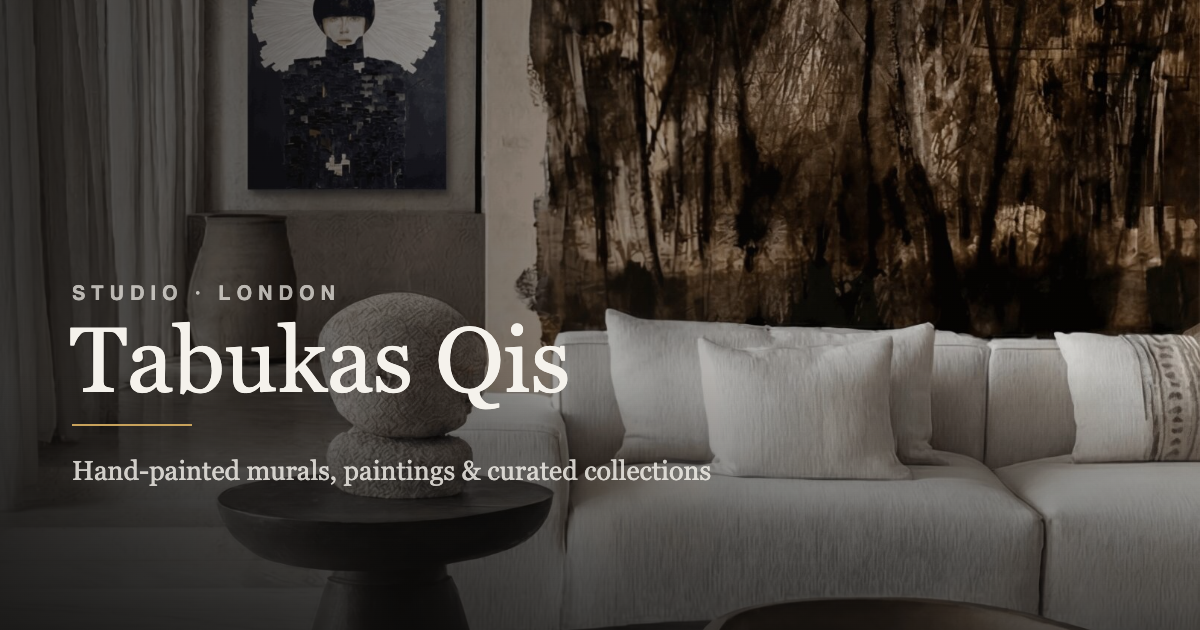
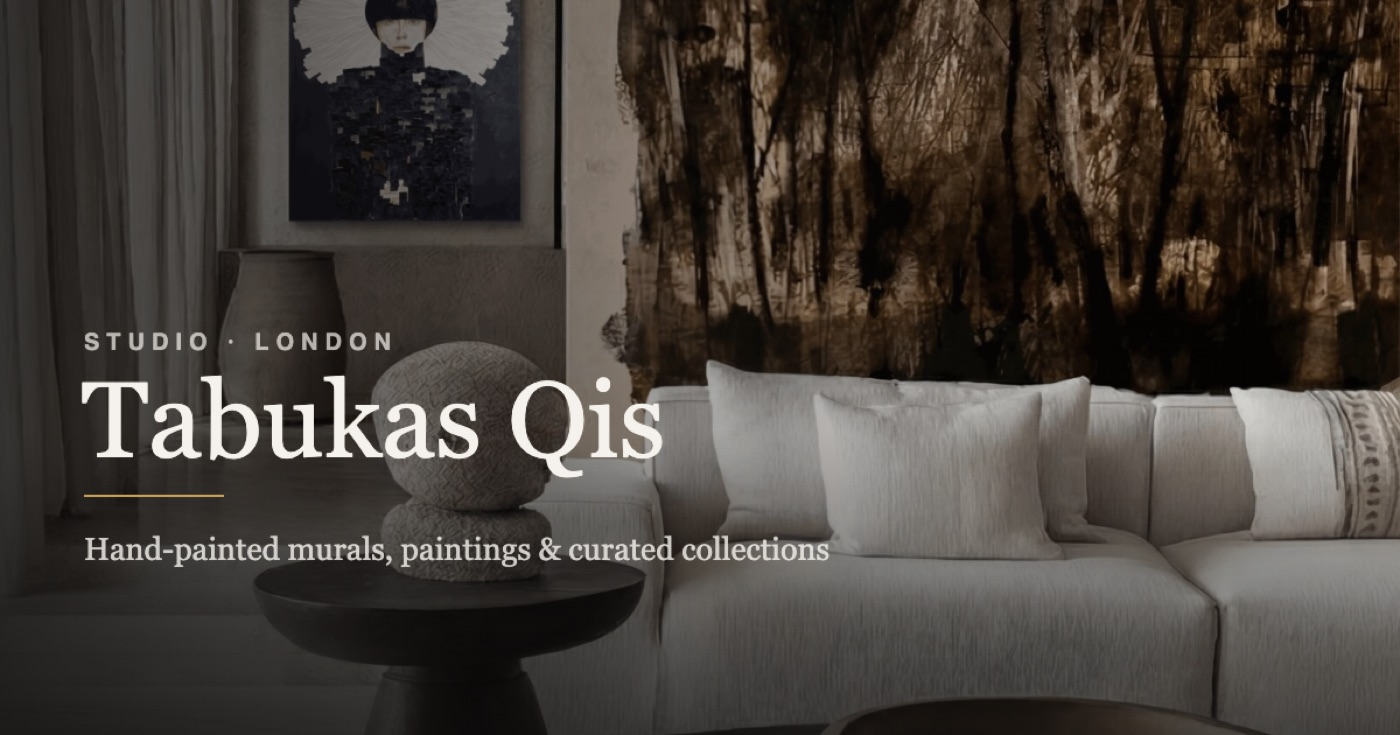
Optimise images and fix mobile layout
- Remove 231MB of unused asset folders (prints, prints-ab, originals)
- Convert 18 mural PNGs to JPEG: 45MB → 5.2MB (88% reduction)
- Compress hero-alt.png: 5.7MB → 584KB, madonna-fire: 10MB → 528KB
- Add lazy loading to gallery and carousel images
- Fix mobile nav layout on Ewa Podles page (was completely missing)
- Add comprehensive mobile CSS for both pages:
  - Panel max-height increased for 18-mural gallery
  - Ledger pricing collapses to 2-col card layout on mobile
  - Stack carousel resizes correctly on small screens
  - Split lightbox stacks vertically on mobile
  - Section padding reduced on small screens
  - Footer stacks on mobile

diff --git a/Projects Menu.html b/Projects Menu.html
@@ -1330,6 +1330,76 @@
   @media (prefers-reduced-motion: reduce) {
     .cm-overlay, .cm-card, .cm-left > *, .cm-right > * { transition-duration: .01ms !important; }
   }
+
+  /* ============ MOBILE FIXES ============ */
+  /* Larger panel height for many-item categories */
+  .proj.open .proj-panel { max-height: 5000px; }
+
+  @media (max-width: 640px) {
+    /* Hero */
+    .tq-hero { padding: 24px 20px 56px; gap: 32px; min-height: auto; }
+    .tq-hero__pull { font-size: 17px; }
+
+    /* Section headings */
+    .roman-numeral { font-size: 5rem; }
+
+    /* Works: gallery 2-col on mobile */
+    .gallery { grid-template-columns: repeat(2, 1fr); gap: 10px; }
+    .card-title { font-size: 13px; }
+    .card-sub { font-size: 8px; }
+    .proj-panel-inner { padding: 4px 8px 40px; }
+    .proj-head { padding: 20px 10px; }
+
+    /* Index list: hide year column */
+    .idx-line { grid-template-columns: 28px 1fr 1fr auto; gap: 10px; }
+    .idx-line .l-year { display: none; }
+    .idx-line .l-name { font-size: 17px; }
+
+    /* Pricing — ledger: collapse to card layout */
+    .lg-head { display: none; }
+    .lg-row {
+      grid-template-columns: 1fr 1fr;
+      grid-template-rows: auto auto;
+      gap: 8px 16px;
+      padding: 20px 12px;
+    }
+    .lg-num { display: none; }
+    .lg-name { grid-column: 1; font-size: 22px; }
+    .lg-desc { grid-column: 1 / -1; font-size: 12px; }
+    .lg-price { grid-column: 2; grid-row: 1; align-items: flex-end; }
+    .lg-price .amt { font-size: 22px; }
+
+    /* Pricing — tonal: 1 column */
+    .tonal-grid { grid-template-columns: 1fr; gap: 12px; }
+    .tonal-card { min-height: auto; padding: 22px 20px 20px; }
+
+    /* Pricing — scale */
+    .scale-steps { height: 200px; }
+    .scale-step .step-label { font-size: 14px; }
+    .scale-step .step-price { font-size: 14px; }
+
+    /* About section padding */
+    section.py-24 { padding-top: 64px; padding-bottom: 64px; }
+    section.py-32 { padding-top: 64px; padding-bottom: 64px; }
+    .py-24.px-12 { padding-left: 16px; padding-right: 16px; }
+    .px-12 { padding-left: 16px !important; padding-right: 16px !important; }
+
+    /* Lightbox on mobile */
+    .lb-desc { padding: 24px 20px; gap: 14px; }
+    .lb-title { font-size: 36px; }
+    .lb-body { font-size: 15px; }
+    .lb-spec { grid-template-columns: 90px 1fr; gap: 10px 16px; font-size: 10px; }
+    .lb-actions { flex-wrap: wrap; }
+
+    /* Footer */
+    footer .max-w-7xl { flex-direction: column; gap: 16px; align-items: flex-start; }
+    footer .flex.gap-12 { gap: 20px; flex-wrap: wrap; }
+  }
+
+  @media (max-width: 380px) {
+    .gallery { grid-template-columns: 1fr; }
+    .tq-toggle button { padding: 10px 14px; font-size: 10px; letter-spacing: 0.2em; }
+  }
 </style>
 </head>
 <body class="bg-background text-on-surface">
@@ -1366,7 +1436,7 @@
     <div class="tq-hero__stage">
       <div class="tq-hero__art" id="tqArt">
         <div class="tq-hero__frame tq-hero__frame--back">
-          <img alt="" src="assets/hero-alt.png"/>
+          <img loading="lazy" alt="" src="assets/hero-alt.jpg"/>
         </div>
         <div class="tq-hero__frame">
           <img class="tq-layer is-on" src="assets/hero.jpg" alt="Tabukas Qis studio"/>
@@ -1829,49 +1899,49 @@ const state = { ...TWEAK_DEFAULTS };
 /* ================= PROJECT DATA ================= */
 const WORKS = {
   murals: [
-    { t: "Garden Fountain",      y: "2024", place: "Private Residence",      img: "assets/murals/mural-01.png", medium: "Hand-painted · Mineral pigment", dims: "3.6 × 2.8 m",
+    { t: "Garden Fountain",      y: "2024", place: "Private Residence",      img: "assets/murals/mural-01.jpg", medium: "Hand-painted · Mineral pigment", dims: "3.6 × 2.8 m",
       desc: "A Pompeian-inspired garden mural built around a scalloped stone fountain. Doves and songbirds gather in deep, layered foliage — the whole wall worked in soft mineral greens." },
-    { t: "Garden of Birds",      y: "2024", place: "Hallway Commission",     img: "assets/murals/mural-02.png", medium: "Hand-painted · Tempera",         dims: "4.0 × 2.6 m",
+    { t: "Garden of Birds",      y: "2024", place: "Hallway Commission",     img: "assets/murals/mural-02.jpg", medium: "Hand-painted · Tempera",         dims: "4.0 × 2.6 m",
       desc: "An ambient botanical scene alive with doves and a single rufous bird. Branches, ferns and a low fountain are treated with equal, unhurried attention." },
-    { t: "Rufous Songbird",      y: "2025", place: "Detail study",           img: "assets/murals/mural-03.png", medium: "Hand-painted · Pigment",         dims: "Detail",
+    { t: "Rufous Songbird",      y: "2025", place: "Detail study",           img: "assets/murals/mural-03.jpg", medium: "Hand-painted · Pigment",         dims: "Detail",
       desc: "A close study from a larger garden scheme — a single rufous bird painted against muted sage foliage, every feather rendered by hand." },
-    { t: "Twilight Woodland",    y: "2023", place: "Bathroom Commission",    img: "assets/murals/mural-04.png", medium: "Hand-painted · Patina glaze",    dims: "2.4 × 2.6 m",
+    { t: "Twilight Woodland",    y: "2023", place: "Bathroom Commission",    img: "assets/murals/mural-04.jpg", medium: "Hand-painted · Patina glaze",    dims: "2.4 × 2.6 m",
       desc: "An atmospheric woodland at dusk, painted behind a carved stone basin. Layered glazes hold the quiet, smoke-toned light of the forest interior." },
-    { t: "Owls in the Aspens",   y: "2024", place: "Private Residence",      img: "assets/murals/mural-05.png", medium: "Hand-painted · Copper leaf",     dims: "3.2 × 2.7 m",
+    { t: "Owls in the Aspens",   y: "2024", place: "Private Residence",      img: "assets/murals/mural-05.jpg", medium: "Hand-painted · Copper leaf",     dims: "3.2 × 2.7 m",
       desc: "A pair of owls perched among slender aspens, set against a warm copper-leaf ground that catches and shifts with the light through the day." },
-    { t: "Bathers",              y: "2023", place: "Bathroom Commission",    img: "assets/murals/mural-06.png", medium: "Hand-painted · Mineral paint",   dims: "2.6 × 2.2 m",
+    { t: "Bathers",              y: "2023", place: "Bathroom Commission",    img: "assets/murals/mural-06.jpg", medium: "Hand-painted · Mineral paint",   dims: "2.6 × 2.2 m",
       desc: "A figurative bathing scene in muted blues for an interior bathroom — classical in feeling, quiet and tonal in execution." },
-    { t: "Pomegranate Chinoiserie", y: "2024", place: "Drawing Room",        img: "assets/murals/mural-07.png", medium: "Hand-painted · Tempera",         dims: "3.8 × 2.9 m",
+    { t: "Pomegranate Chinoiserie", y: "2024", place: "Drawing Room",        img: "assets/murals/mural-07.jpg", medium: "Hand-painted · Tempera",         dims: "3.8 × 2.9 m",
       desc: "A chinoiserie scheme of flowering branches, pomegranates and trailing botanicals, painted across a full reception wall in warm chalk tones." },
-    { t: "Bee-eaters & Blossom", y: "2025", place: "Canvas Commission",      img: "assets/murals/mural-08.png", medium: "Hand-painted on canvas",         dims: "1.6 × 1.6 m",
+    { t: "Bee-eaters & Blossom", y: "2025", place: "Canvas Commission",      img: "assets/murals/mural-08.jpg", medium: "Hand-painted on canvas",         dims: "1.6 × 1.6 m",
       desc: "Two golden bee-eaters at rest on a cherry-blossom branch, against a soft turquoise field. Painted as a free-standing canvas for a bedroom wall." },
-    { t: "Blossom Headboard",    y: "2025", place: "Hospitality, installed", img: "assets/murals/mural-09.png", medium: "Hand-painted on canvas",         dims: "Installed view",
+    { t: "Blossom Headboard",    y: "2025", place: "Hospitality, installed", img: "assets/murals/mural-09.jpg", medium: "Hand-painted on canvas",         dims: "Installed view",
       desc: "The blossom-and-bee-eater canvas in situ above a bed, beneath an arched ceiling — the turquoise ground answering the room's cool light." },
-    { t: "Poolside",             y: "2024", place: "Interior Commission",    img: "assets/murals/mural-10.png", medium: "Hand-painted · Mixed media",     dims: "2.2 × 1.7 m",
+    { t: "Poolside",             y: "2024", place: "Interior Commission",    img: "assets/murals/mural-10.jpg", medium: "Hand-painted · Mixed media",     dims: "2.2 × 1.7 m",
       desc: "A modern figurative composition — a bather in red against blocked geometric colour — installed in a poured-concrete interior." },
-    { t: "Pool Garden",          y: "2025", place: "Outdoor Commission",     img: "assets/murals/mural-11.png", medium: "Exterior mural · UV pigment",    dims: "5.0 × 2.5 m",
+    { t: "Pool Garden",          y: "2025", place: "Outdoor Commission",     img: "assets/murals/mural-11.jpg", medium: "Exterior mural · UV pigment",    dims: "5.0 × 2.5 m",
       desc: "An outdoor mural bringing calm and figure to a poolside courtyard — proof that a painted wall belongs to gardens and terraces as much as to rooms." },
-    { t: "Spring Branches",      y: "2024", place: "Sitting Room",           img: "assets/murals/mural-12.png", medium: "Hand-painted · Pigment",         dims: "4.2 × 2.7 m",
+    { t: "Spring Branches",      y: "2024", place: "Sitting Room",           img: "assets/murals/mural-12.jpg", medium: "Hand-painted · Pigment",         dims: "4.2 × 2.7 m",
       desc: "Flowering branches and small birds scattered lightly across a warm plaster wall — a softer, more open take on the chinoiserie tradition." },
-    { t: "Gold Leaf Study",      y: "2025", place: "Studio process",         img: "assets/murals/mural-13.png", medium: "Pigment · 24ct gold leaf",       dims: "Detail",
+    { t: "Gold Leaf Study",      y: "2025", place: "Studio process",         img: "assets/murals/mural-13.jpg", medium: "Pigment · 24ct gold leaf",       dims: "Detail",
       desc: "A process detail — gold leaf laid by hand into a painted leaf, the gilding catching against deep botanical greens." },
-    { t: "The Bullfinch",        y: "2025", place: "Magnolia Commission",    img: "assets/murals/mural-14.png", medium: "Hand-painted · Pigment",         dims: "Detail",
+    { t: "The Bullfinch",        y: "2025", place: "Magnolia Commission",    img: "assets/murals/mural-14.jpg", medium: "Hand-painted · Pigment",         dims: "Detail",
       desc: "A bullfinch on a branch among magnolia, painted against a soft taupe ground — a single bird study from a larger blossom wall." },
-    { t: "Magnolia Room",        y: "2025", place: "Bedroom, installed",     img: "assets/murals/mural-15.png", medium: "Hand-painted · Pigment",         dims: "Installed view",
+    { t: "Magnolia Room",        y: "2025", place: "Bedroom, installed",     img: "assets/murals/mural-15.jpg", medium: "Hand-painted · Pigment",         dims: "Installed view",
       desc: "A magnolia and blossom tree spreading across a bedroom wall, drawn into the corner of the room and answered by the light from the window." },
-    { t: "Magnolia & Birds",     y: "2025", place: "Bedroom Commission",     img: "assets/murals/mural-16.png", medium: "Hand-painted · Pigment",         dims: "4.6 × 2.8 m",
+    { t: "Magnolia & Birds",     y: "2025", place: "Bedroom Commission",     img: "assets/murals/mural-16.jpg", medium: "Hand-painted · Pigment",         dims: "4.6 × 2.8 m",
       desc: "A full-wall magnolia tree in bloom, with brightly coloured birds — jays, bee-eaters and finches — perched throughout the branches." },
-    { t: "Two Owls, Copper",     y: "2024", place: "Panel Commission",       img: "assets/murals/mural-17.png", medium: "Hand-painted · Copper leaf",     dims: "1.8 × 2.4 m",
+    { t: "Two Owls, Copper",     y: "2024", place: "Panel Commission",       img: "assets/murals/mural-17.jpg", medium: "Hand-painted · Copper leaf",     dims: "1.8 × 2.4 m",
       desc: "Two owls nestled among birch trunks on a luminous copper-leaf ground — a quieter, more graphic companion to the aspen mural." },
-    { t: "White-eye & Magnolia", y: "2026", place: "Magnolia Commission",    img: "assets/murals/mural-18.png", medium: "Hand-painted · Pigment",         dims: "Detail",
+    { t: "White-eye & Magnolia", y: "2026", place: "Magnolia Commission",    img: "assets/murals/mural-18.jpg", medium: "Hand-painted · Pigment",         dims: "Detail",
       desc: "A small white-eye perched among blossom and a single open magnolia, painted with fine detail against a warm, chalky ground." },
   ],
   paintings: [
-    { t: "Study No. 04",       y: "2023", place: "Oil on linen",   img: "assets/hero-alt.png", medium: "Oil on linen",                   dims: "120 × 90 cm",
+    { t: "Study No. 04",       y: "2023", place: "Oil on linen",   img: "assets/hero-alt.jpg", medium: "Oil on linen",                   dims: "120 × 90 cm",
       desc: "A tonal study exploring the relationship between weight and light. Part of an ongoing series of interior observations." },
     { t: "Quiet Blue",         y: "2024", place: "Oil on panel",   img: "assets/hero.jpg",     medium: "Oil on gessoed panel",           dims: "80 × 60 cm",
       desc: "A meditative composition in ultramarine and bone white. The surface is built slowly, through many thin layers, toward a quiet depth." },
-    { t: "Ochre Interior",     y: "2024", place: "Mixed media",    img: "assets/hero-alt.png", medium: "Mixed media on canvas",          dims: "150 × 110 cm",
+    { t: "Ochre Interior",     y: "2024", place: "Mixed media",    img: "assets/hero-alt.jpg", medium: "Mixed media on canvas",          dims: "150 × 110 cm",
       desc: "A domestic interior reduced to its tonal essentials — ochre, umber, and the pale stone of an unseen window." },
     { t: "Evening Composition",y: "2025", place: "Oil on linen",   img: "assets/hero.jpg",     medium: "Oil on linen",                   dims: "200 × 140 cm",
       desc: "A large-format evening piece painted over several months. Colour gathers in the lower half of the canvas, the way light does in a room at dusk." },
@@ -1879,11 +1949,11 @@ const WORKS = {
   interiors: [
     { t: "Shoreditch Loft",    y: "2024", place: "Residential",    img: "assets/hero.jpg",     medium: "Full-space curation",            dims: "180 m²",
       desc: "A complete visual programme for a converted warehouse — commissioned murals, selected paintings and a palette of quiet, architectural finishes." },
-    { t: "Coast House",        y: "2025", place: "Holiday home",   img: "assets/hero-alt.png", medium: "Curated collection",             dims: "260 m²",
+    { t: "Coast House",        y: "2025", place: "Holiday home",   img: "assets/hero-alt.jpg", medium: "Curated collection",             dims: "260 m²",
       desc: "A coastal residence set to a restrained palette of limestone, salt and weathered timber. Works respond directly to the horizon and the light of the estuary." },
     { t: "Studio Belgravia",   y: "2025", place: "Office",         img: "assets/hero.jpg",     medium: "Commission & curation",          dims: "420 m²",
       desc: "A workplace scheme for a design studio — three commissioned murals anchor the main floor, supported by a rotating selection of works on paper." },
-    { t: "Nordic Retreat",     y: "2026", place: "Hospitality",    img: "assets/hero-alt.png", medium: "Hospitality curation",           dims: "780 m²",
+    { t: "Nordic Retreat",     y: "2026", place: "Hospitality",    img: "assets/hero-alt.jpg", medium: "Hospitality curation",           dims: "780 m²",
       desc: "A boutique hotel project realised in collaboration with the architects. Each room receives a single work, chosen for its relationship to the view beyond the window." },
   ],
 };
@@ -1901,7 +1971,7 @@ function renderPanel(proj) {
       <div class="gallery">
         ${works.map((w, i) => `
           <a class="card" href="#" data-cat="${cat}" data-idx="${i}">
-            <div class="card-img"><img src="${w.img}" alt="${w.t}"/></div>
+            <div class="card-img"><img loading="lazy" src="${w.img}" alt="${w.t}"/></div>
             <div class="card-meta">
               <div>
                 <div class="card-title">${w.t}</div>
@@ -1932,7 +2002,7 @@ function renderPanel(proj) {
       <div class="strip">
         ${works.map((w, i) => `
           <a class="strip-tile" href="#">
-            <div class="strip-img"><img src="${w.img}" alt="${w.t}"/></div>
+            <div class="strip-img"><img loading="lazy" src="${w.img}" alt="${w.t}"/></div>
             <div class="strip-caption">
               <span class="t">${w.t}</span>
               <span style="opacity:.5">${idx}.${String(i+1).padStart(2,'0')} · ${w.y}</span>
@@ -2166,7 +2236,7 @@ function openLightbox(card) {
   // Build flyer at the source position
   const flyer = document.createElement("div");
   flyer.className = "lb-flyer";
-  flyer.innerHTML = `<img src="${img.src}" alt=""/>`;
+  flyer.innerHTML = `<img loading="lazy" src="${img.src}" alt=""/>`;
   flyer.style.left = "0px";
   flyer.style.top = "0px";
   flyer.style.width = srcRect.width + "px";

diff --git a/Ewa Podles.html b/Ewa Podles.html
@@ -637,6 +637,87 @@
   @media (prefers-reduced-motion: reduce) {
     .cm-overlay, .cm-card, .cm-left > *, .cm-right > * { transition-duration: .01ms !important; }
   }
+
+  /* ============ MOBILE FIXES ============ */
+
+  /* Nav — missing on Ewa page */
+  @media (max-width: 720px) {
+    .tq-nav { grid-template-columns: auto 1fr; gap: 16px; padding: 16px 20px; }
+    .tq-nav__center { grid-column: 1 / -1; grid-row: 2; }
+    .tq-nav__right { display: none; }
+    .tq-toggle button { padding: 10px 18px; letter-spacing: 0.25em; }
+  }
+
+  @media (max-width: 640px) {
+    /* Hero */
+    .ewa-hero { padding: 32px 20px 48px; gap: 28px; min-height: auto; }
+    .ewa-hero__type { padding-left: 0; }
+    .ewa-hero__name { font-size: clamp(56px, 14vw, 80px); }
+    .ewa-hero__pull { font-size: 17px; margin-top: 18px; }
+    .ewa-hero__meta { display: none; }
+    .ewa-hero__rail { display: none; }
+    .ewa-hero__stage { gap: 0; }
+
+    /* Section headings */
+    .roman-numeral { font-size: 5rem; }
+
+    /* About */
+    .ewa-bio { font-size: 17px; }
+    .ewa-bio-meta { grid-template-columns: 1fr; gap: 24px; margin-top: 36px; }
+
+    /* Stack carousel */
+    .stk-arena {
+      grid-template-columns: 44px 1fr 28px;
+      gap: 4px;
+      min-height: 80vh;
+      padding: 0 4px;
+    }
+    .stk-counter .cur { font-size: 36px; }
+    .stk-counter .sep { width: 22px; margin: 12px 0; }
+    .stk-counter .tot { font-size: 16px; }
+    .card-stack { width: 100%; max-width: 320px; height: 480px; transform: none; }
+    .stk-card { width: calc(100% - 16px); }
+
+    /* Split lightbox on mobile */
+    .splb { grid-template-columns: 1fr; grid-template-rows: 55% 45%; }
+    .splb:not(.is-open) .splb-left  { transform: translateY(-100%); }
+    .splb:not(.is-open) .splb-right { transform: translateY(100%); }
+    .splb-left { padding: 20px; }
+    .splb-right { padding: 24px 24px 32px; justify-content: flex-start; overflow-y: auto; }
+    .splb-ghost { font-size: 56px; }
+    .splb-title { font-size: clamp(28px, 8vw, 44px); }
+    .splb-body { font-size: 14px; }
+    .splb-thumbs { gap: 10px; }
+    .splb-thumb__frame { height: 60px; }
+
+    /* Print marquee */
+    .pclb-track { padding: 0 16px; }
+    .pclb-slide { height: 60%; margin-right: 20px; }
+    .pclb-bar { padding: 14px 18px; gap: 12px; }
+    .pclb-bar__title { font-size: 17px; }
+
+    /* Exhibitions */
+    .ex-year { grid-template-columns: 1fr; gap: 10px; padding: 24px 0; }
+    .ex-year__num { font-size: 36px; }
+    .ex-row { grid-template-columns: 1fr; gap: 2px; padding: 12px 4px; }
+    .ex-row__loc { text-align: left; }
+
+    /* Footer */
+    footer { padding: 32px 20px; }
+    footer .row { flex-direction: column; gap: 16px; align-items: flex-start; }
+    footer .flex.gap-12 { gap: 20px; flex-wrap: wrap; }
+
+    /* Section padding */
+    .py-32 { padding-top: 64px !important; padding-bottom: 64px !important; }
+    .px-12 { padding-left: 16px !important; padding-right: 16px !important; }
+    .py-24 { padding-top: 48px !important; padding-bottom: 48px !important; }
+  }
+
+  @media (max-width: 380px) {
+    .card-stack { max-width: 270px; height: 400px; }
+    .tq-toggle button { padding: 10px 12px; font-size: 10px; letter-spacing: 0.18em; }
+    .tq-toggle button .ewa-italic { font-size: 12px; margin-left: 3px; }
+  }
 </style>
 </head>
 <body>
@@ -788,7 +869,7 @@
   <div class="splb-panel splb-left">
     <div class="splb-stage">
       <button class="splb-nav prev" id="splbPrev" aria-label="Previous image">‹</button>
-      <img id="splbImg" alt=""/>
+      <img loading="lazy" id="splbImg" alt=""/>
       <button class="splb-nav next" id="splbNext" aria-label="Next image">›</button>
       <div class="splb-count" id="splbCount"></div>
     </div>
@@ -1114,7 +1195,7 @@ function openSplb(it) {
   // build the labelled filmstrip / nav only when there's a collection to browse
   splbThumbs.innerHTML = multi ? lbImages.map((src, k) =>
     `<button class="splb-thumb" data-k="${k}">
-       <span class="splb-thumb__frame"><img src="${src}" alt=""/></span>
+       <span class="splb-thumb__frame"><img loading="lazy" src="${src}" alt=""/></span>
        <span class="splb-thumb__label">${labelFor(src, k)}</span>
      </button>`
   ).join('') : '';
@@ -1241,7 +1322,7 @@ function buildStack(opts) {
 
   stackEl.innerHTML = items.map((it, i) =>
     `<button class="stk-card" data-i="${i}" style="z-index:0;opacity:0">
-       <img src="${it.img}" alt="${stripTags(it.title)}" draggable="false"/>
+       <img loading="lazy" src="${it.img}" alt="${stripTags(it.title)}" draggable="false"/>
      </button>`
   ).join('');
   dotsEl.innerHTML = items.map((it, i) =>